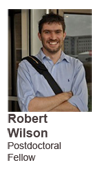
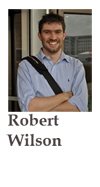
Version 3

Changed region(s): [[0.06, 0.0535, 0.63, 0.8824]]

diff --git a/public/stylesheets/ncclab.css b/public/stylesheets/ncclab.css
@@ -2,8 +2,8 @@
 
 html, body {
 	height: 100%;
-	font: 100% Arial, sans-serif;
-	background: none repeat scroll 0 0 #F1F1F1;
+	font: 100% Book Antiqua, Arial, sans-serif;
+	background: none repeat scroll 0 0 #EDEBE7;
 	margin: 0; 
 	padding: 0;
 	text-align: left; 
@@ -11,19 +11,19 @@ html, body {
 	text-decoration: none;
 }
 h1  {
-	font: 200% Arial, sans-serif;
+	font: 200% Book Antiqua, Arial, sans-serif;
 	font-weight: bold;
 	color: #322B2B;
 	margin-bottom: 20px;
 }
 h2 {
-	font: 150% Arial, sans-serif;
+	font: 150% Book Antiqua, Arial, sans-serif;
 	font-weight: bold;
 	color: #322B2B;
 	padding-left: 80px
 }
 h3 {
-	font: 125% Arial, sans-serif;
+	font: 125% Book Antiqua, Arial, sans-serif;
 	font-weight: bold;
 	color: #584D4D;
 	margin-bottom: -10px;
@@ -36,16 +36,16 @@ a:hover {
 	text-decoration: underline;
 }
 p {
-	font: 100% Arial, sans-serif;
+	font: 100% Book Antiqua, Arial, sans-serif;
 	color: #584D4D;
 	margin-left: 80px;
 	margin-top: -15px;
 }
 .wrap { 
-	width: 960px;
-	margin: 0 auto;
+	width: 100%;
+	/*margin: 0 auto;*/
 	min-height: 100%;
-	background: none repeat scroll 0 0 #F1F1F1;
+	background: none repeat scroll 0 0 #EDEBE7;
 }
 .header {
 	width: 100%;
@@ -57,7 +57,7 @@ p {
 	margin:0 auto;
 	width:960px;
 	min-height: 6em;
-	border-bottom: 1px dotted #A5A5A5;
+	/*border-bottom: 1px dotted #A5A5A5;*/
 }
 .bodycontainer {
 	position: relative;
@@ -91,7 +91,8 @@ p {
 	display:block;
 	color: #322B2B;
 	text-decoration:none;
-	font:16px 'Lekton', Helvetica, sans-serif;
+	font: 19px Book Antiqua, serif;
+	font-style: italic;
 	cursor:pointer;
 	outline:none;
 }
@@ -103,19 +104,20 @@ p {
 }
 .menu li a:hover{
 	background-color: #1D1919;
-	color:rgb(255,255,255);
+	color: rgb(255,255,255);
 }
 .menu li a:hover span{
 	background-color: #1D1919;
 }
 .menu li a.active, .menu li a.active:hover{
 	line-height:60px;
-	font:16px 'Lekton', Helvetica, sans-serif;
+	font: 19px Book Antiqua, serif;
 	background-color: #1D1919;
-	color:rgb(255,255,255);
+	color: rgb(255,255,255);
 }
 .menu li a.active span, .menu li a.active:hover span{
 	background-color: #1D1919;
+	font-style: italic;
 }
 
 .title {
@@ -149,9 +151,8 @@ p {
 	margin: auto;
 }
 .welcome{
-	font: 2.5em Helvetica, Arial, sans-serif;
+	font: 2.5em Bookman Antiqua, serif;
 	color: #584D4D;
-	font-style: italic;
 	padding-top: 50px;
 	padding-right: 50px;
 	margin: 0 auto;
@@ -170,21 +171,25 @@ p {
 	clear:both;
 }
 .footerwrap {
+	width: 100%;
+	min-height: 100%;
+	border-bottom: 15px solid #1D1919;
+}
+.footercontainer {
+	position: relative;
 	width: 960px;
 	margin: 0 auto;
-	min-height: 100%;
-	border-top: 1px dotted #322B2B;
-	border-bottom: 15px solid #1D1919;
 	font-size: 14px;
+	border-top: 1px dotted #322B2B;
 }
 .footerlink{
 	text-align: center;
 	color: #584D4D;
-	font: 1em Lucida Grande, Arial, Helvetica, sans-serif;
+	font: 1em Book Antiqua, Lucida Grande, Arial, Helvetica, sans-serif;
 }
 .footerlink:hover{
 	color:#CC6600;
-	font: 1em Lucida Grande, Arial, Helvetica, sans-serif;
+	font: 1em Book Antiqua, Lucida Grande, Arial, Helvetica, sans-serif;
 	text-decoration: none
 }
 .personbox {
@@ -193,7 +198,7 @@ p {
   margin: 10px;
 }
 .personbox:hover {
-  background-color: rgb(189, 201, 208);
+  background-color: rgb(215, 150, 91);
   height: 187px;
   width: 100px;
 }
@@ -226,7 +231,7 @@ p {
   margin-left: 110px;
 }
 .peoplenav, .researchnav, .internshipsnav {
-  font: 1em Arial, sans-serif;
+  font: 1em Book Antiqua, Arial, sans-serif;
   color: #322B2B;
   border-left: 4px solid #322B2B;
   list-style-type: none;
@@ -238,7 +243,7 @@ p {
   text-decoration: underline;
 }
 .peoplesubnav a, .postionsubnav a {
-  font: 0.95em Arial, sans-serif;
+  font: 0.95em Book Antiqua, Arial, sans-serif;
   list-style-type: none;
   color: #322B2B;
   line-height: 200%;
@@ -248,7 +253,7 @@ p {
   list-style-type: none;
 }
 .peoplesubnav a:hover, .positionsubnav a:hover {
-  font: 0.95em Arial, sans-serif;
+  font: 0.95em Book Antiqua, Arial, sans-serif;
   text-decoration: underline;
   line-height: 200%;
 }
@@ -268,12 +273,12 @@ p {
 	margin-bottom: -100px;
 }
 .personname {
-	font: 125% Arial, sans-serif;
+	font: 125% Book Antiqua, Arial, sans-serif;
 	font-weight: bold;
 	color: #322B2B;
 }
 .personname:hover {
-	font: 125% Arial, sans-serif;
+	font: 125% Book Antiqua, Arial, sans-serif;
 	font-weight: bold;
 	text-decoration: underline;
 	color: #322B2B;
@@ -309,7 +314,7 @@ p {
 	box-shadow: 5px 5px 5px rgba(0, 0, 0, 0.1);
 	webkit-box-shadow: 5px 5px rgba(0, 0, 0, 0.1); 
 	moz-box-shadow: 5px 5px rgba(0, 0, 0, 0.1);
-	font: 0.85em Arial, sans-serif;
+	font: 0.85em Book Antiqua, Arial, sans-serif;
 	color: #322B2B;
 	text-decoration: none;
 	position: absolute; 
@@ -338,7 +343,7 @@ p {
 	background: transparent;
 }
 .classic {
-	background: #F1F1F1; 
-	border: 1px solid #322B2B; 
+	background: #EDEBE7; 
+	border: 2px solid #322B2B; 
 }
 

diff --git a/public/stylesheets/style.aw-showcase.css b/public/stylesheets/style.aw-showcase.css
@@ -39,7 +39,7 @@ button::-moz-focus-inner {
 
 .sliderbody
 {
-	background-color: #F1F1F1;
+	background-color: #EDEBE7;
 	color: #fff;
 	font-family: Century Gothic, Arial;
 	font-size: 12px;
@@ -50,12 +50,12 @@ button::-moz-focus-inner {
 
 .sliderheader
 {
-	font: 2.5em 'Lekton', Arial, sans-serif;
+	font: 2.5em Book Antiqua, serif;
 	margin-bottom: 5px;
 }
 .captionheader
 {
-	font: 3em Helvetica, Arial, sans-serif;
+	font: 1em Book Antiqua, serif;
 	color: #FFFFFF;
 	padding-top: 150px;
 	text-decoration: none;
@@ -131,7 +131,7 @@ button::-moz-focus-inner {
 	.showcase-content
 	{
 		text-align: center;
-		background-color: #F1F1F1;;
+		background-color: #EDEBE7;
 	}
 		
 		.showcase-plus-anchor
@@ -157,17 +157,32 @@ button::-moz-focus-inner {
 		.showcase-caption
 		{
 	color: #000;
-	padding-top: 15px;
+	padding-top: 22px;
 	text-align: center;
 	position: absolute;
-	top: 0px;
-	bottom: 0px;
-	left: 0px;
-	right: 0px;
+	top: 170px;
+	bottom: 70px;
+	left: 85px;
+	right: 415px;
 	display: none;
-	background-image: url('/images/black-opacity-60.png');
+	background-image: url('/images/normal.png');
 	font-size: 18px;
 		}
+		.showcase-caption:hover
+		{
+	color: #000;
+	padding-top: 22px;
+	text-align: center;
+	position: absolute;
+	top: 170px;
+	bottom: 70px;
+	left: 85px;
+	right: 415px;
+	display: none;
+	background-image: url('/images/hover.png');
+	font-size: 18px;
+		}
+	
 	
 	/* Button Wrapper */
 	.showcase-button-wrapper
@@ -228,7 +243,7 @@ button::-moz-focus-inner {
 			
 			.showcase-thumbnail-cover
 			{
-				background-image: url('/images/black-opacity-40.png');
+				/*background-image: url('/images/black-opacity-40.png');*/
 				position: absolute;
 				top: 0; bottom: 0; left: 0; right: 0;
 			}
